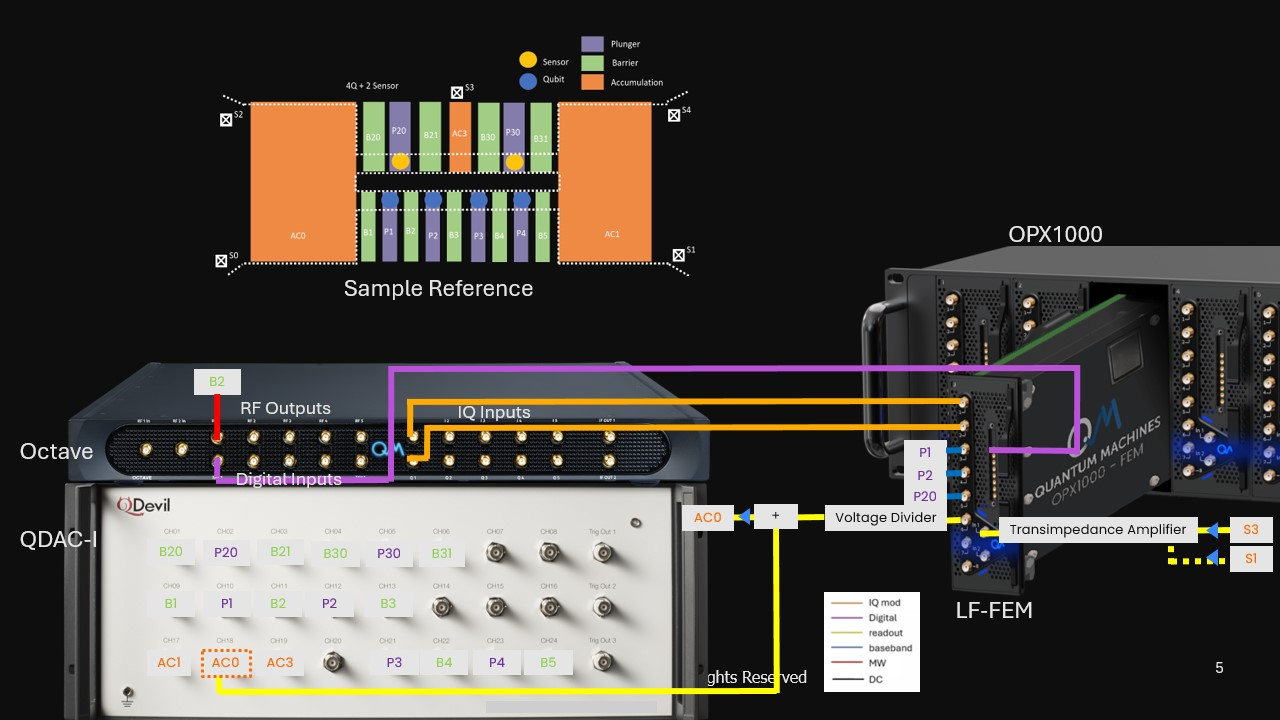
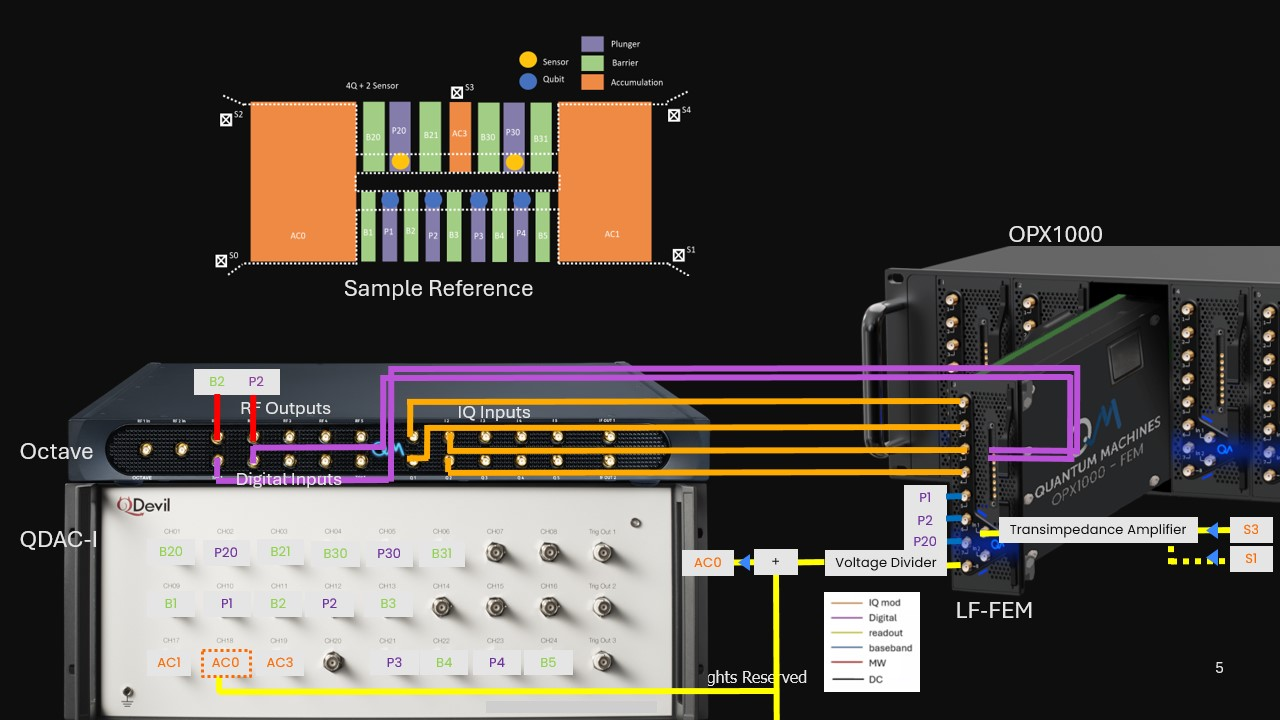
Add PAT.

Changed region(s): [[0.1875, 0.4889, 0.8438, 0.825], [0.5938, 0.9472, 0.625, 1.0]]

diff --git a/05_photon_assisted_tunneling.py b/05_photon_assisted_tunneling.py
@@ -1,0 +1,186 @@
+"""
+Photon-Assisted Tunneling Stability Map
+
+Performs a 2D sweep of the plunger gate voltages (P1, P2) using a QDAC while applying a high-frequency RF drive to one gate, inducing photon-assisted tunneling (PAT). The resulting current through the single-electron transistor (SET) is measured to map out charge transitions in a double quantum dot (DQD).
+
+Purpose:
+- Reveal standard and PAT-enhanced interdot charge transitions.
+- Visualize charge stability regions and tunneling processes.
+
+Output:
+- 2D current or lock-in map showing electron occupancy, saved with metadata and plots.
+"""
+
+
+from qm.qua import *
+from qm import QuantumMachinesManager
+from qm import SimulationConfig
+from qualang_tools.plot import interrupt_on_close
+from qualang_tools.results import wait_until_job_is_paused, fetching_tool, progress_counter, DataHandler
+
+from configuration import *
+import matplotlib.pyplot as plt
+
+from macros import measure_current, measure_lock_in, fetch_results_current, fetch_results_lock_in
+
+###################
+# The QUA program #
+###################
+n_avg = 100  # The number of averages
+left_plunger_gate = "P1"
+right_plunger_gate = "P2"
+measurement_type = "lock-in"  # "current" or "lock-in"
+
+# Surrounding voltage gates to be set to their turn-on voltage
+surrounding_gates = ["B1", "P2", "B3"]
+
+voltage_span = 0.3
+voltage_step = 0.02
+
+left_plunger_gate_dc_offsets = np.arange(
+    qdac_turn_on_voltages[left_plunger_gate] - voltage_span / 2,
+    qdac_turn_on_voltages[left_plunger_gate] + voltage_span / 2,
+    voltage_step
+)
+right_plunger_gate_dc_offsets = np.arange(
+    qdac_turn_on_voltages[right_plunger_gate] - voltage_span / 2,
+    qdac_turn_on_voltages[right_plunger_gate] + voltage_span / 2,
+    voltage_step
+)
+
+simulate = False
+
+with program() as prog:
+    n = declare(int)  # QUA variable for the averaging loop
+    i = declare(int)  # QUA variable for indexing the left barrier gate voltage step
+    j = declare(int)  # QUA variable for indexing the right barrier gate voltage step
+    n_st = declare_stream()
+
+    with for_(i, 0, i < len(left_plunger_gate_dc_offsets) + 1, i + 1):
+        with for_(j, 0, j < len(right_plunger_gate_dc_offsets) + 1, j + 1):
+            if not simulate:
+                # Pause the OPX to update the external DC voltages in Python
+                pause()
+                # Wait for the voltages to settle (depends on the voltage source bandwidth)
+                wait(settle_time)
+
+            play("photon_assisted_tunneling", "P2_RF")
+            # todo: should we wait here for equal time? As in "Coupling artificial
+            #  molecular spin states by photon-assisted tunnelling" by L.R Schreiber
+
+            with for_(n, 0, n < n_avg, n + 1):  # QUA for_ loop for averaging
+                if measurement_type == "current":
+                    i_source_st = measure_current()
+                elif measurement_type == "lock-in":
+                    I_st, Q_st = measure_lock_in()
+
+        save(i, n_st)
+
+    with stream_processing():
+        if measurement_type == "current":
+            i_source_st.buffer(n_avg).map(FUNCTIONS.average()).buffer(len(right_plunger_gate_dc_offsets)).save_all("i_source")
+        elif measurement_type == "lock-in":
+            I_st.buffer(n_avg).map(FUNCTIONS.average()).buffer(len(right_plunger_gate_dc_offsets)).save_all("I")
+            Q_st.buffer(n_avg).map(FUNCTIONS.average()).buffer(len(right_plunger_gate_dc_offsets)).save_all("Q")
+
+        n_st.save("iteration")
+
+
+#####################################
+#  Open Communication with the QOP  #
+#####################################
+qmm = QuantumMachinesManager(host=qop_ip, port=qop_port, cluster_name=cluster_name, octave=None)
+
+#######################
+# Simulate or execute #
+#######################
+if simulate:
+    # Simulates the QUA program for the specified duration
+    simulation_config = SimulationConfig(duration=1_000)  # In clock cycles = 4ns
+    # Simulate blocks python until the simulation is done
+    job = qmm.simulate(config, prog, simulation_config)
+    # Get the simulated samples
+    samples = job.get_simulated_samples()
+    # Get the waveform report object
+    waveform_report = job.get_simulated_waveform_report()
+    # Cast the waveform report to a python dictionary
+    waveform_dict = waveform_report.to_dict()
+    # Visualize and save the waveform report
+    waveform_report.create_plot(samples, plot=True, save_path=save_dir / "waveform_report.html")
+else:
+    # Initialize QDAC
+    qdac = get_qdac()
+    gate_plunger = qdac.get_channel_from_gate(left_plunger_gate)
+    gate_barrier = qdac.get_channel_from_gate(right_plunger_gate)
+
+    for surrounding_gate in surrounding_gates:
+        qdac.set_to_turn_on_voltage(surrounding_gate)
+
+    # Open the quantum machine
+    qm = qmm.open_qm(config)
+    # Send the QUA program to the OPX, which compiles and executes it
+    job = qm.execute(prog)
+    # Live plotting
+    fig, ax = plt.subplots(1, 1)
+    ax = [ax]
+
+    interrupt_on_close(fig, job)  # Interrupts the job when closing the figure
+
+    for i in range(len(left_plunger_gate_dc_offsets)):  # Loop over voltages
+        for j in range(len(right_plunger_gate_dc_offsets)):
+            # Set voltage
+            gate_plunger.v(left_plunger_gate_dc_offsets[i])  # set the channel voltage
+            gate_barrier.v(right_plunger_gate_dc_offsets[j])  # set the channel voltage
+            # Resume the QUA program (escape the 'pause' statement)
+            job.resume()
+            # Wait until the program reaches the 'pause' statement again, indicating that the QUA program is done
+            wait_until_job_is_paused(job)
+
+            if measurement_type == "current":
+                measurement_data_list = ["i_source"]
+            else:
+                measurement_data_list = ["I", "Q"]
+
+            if i == 0:
+                # Get results from QUA program and initialize live plotting
+                results = fetching_tool(job, data_list=measurement_data_list + ["iteration"], mode="live")
+
+            # Fetch the data from the last OPX run corresponding to the current slow axis iteration
+            iteration = results.fetch_all()[-1]
+            if measurement_type == "current":
+                measurement_data = fetch_results_current(results)
+            else:
+                measurement_data = fetch_results_lock_in(results)
+
+        # Progress bar
+        progress_counter(iteration, len(left_plunger_gate_dc_offsets))
+
+        # Plot results
+        for k, (name, result) in enumerate(measurement_data.items()):
+            axis_title = " ".join(name.split("_")[:-1]).capitalize() + f' [{name.split("_")[-1]}]'
+            fig.suptitle(f"{left_plunger_gate}-{right_plunger_gate} Stability Map with PAT ({measurement_type.capitalize()})")
+            ax[k].cla()
+            map = ax[k].pcolormesh(right_plunger_gate_dc_offsets, left_plunger_gate_dc_offsets[: iteration + 1], result, cmap="seismic")
+            ax[k].set_xlabel(f"{left_plunger_gate} Gate Voltage [V]")
+            ax[k].set_ylabel(f"{right_plunger_gate} Gate Voltage [V]")
+            cbar = plt.colorbar(map)
+            cbar.set_label(axis_title)
+
+            fig.tight_layout()
+            plt.pause(1)
+
+    data_handler = DataHandler(root_data_folder=save_dir)
+    data = {
+        **measurement_data,
+        "plunger_gate": left_plunger_gate,
+        "barrier_gate": right_plunger_gate,
+        "left_plunger_gate_dc_offsets": left_plunger_gate_dc_offsets,
+        "right_gate_dc_offsets": right_plunger_gate_dc_offsets,
+        "figure": fig
+    }
+    # Save results
+    data_folder = data_handler.save_data(data=data, name=f"{left_plunger_gate}_{right_plunger_gate}_stability_map_with_pat_{measurement_type}")
+
+    qdac.close()
+
+plt.show()

diff --git a/configuration.py b/configuration.py
@@ -99,6 +99,11 @@ qubit_LO = 13 * u.GHz
 qubit_1_IF = 50 * u.MHz
 qubit_2_IF = 50 * u.MHz
 
+photon_assisted_tunneling_LO = 10 * u.GHz
+photon_assisted_tunneling_IF = 50 * u.MHz
+photon_assisted_tunneling_length = 1 * u.ms
+photon_assisted_tunneling_amp = 100 * u.mV
+
 # Continuous wave
 const_len = 100
 const_amp = 0.1
@@ -211,9 +216,22 @@ config = {
                 "-y90": "-y90_pulse_q2",
             },
         },
+        "P2_RF": {
+            # "RF_inputs": {"port": (octave, 1)},
+            'mixInputs': {
+                'I': (con, fem, 3),
+                'Q': (con, fem, 4),
+                'lo_frequency': photon_assisted_tunneling_LO,
+                'mixer': 'mixer_pat'
+            },
+            "intermediate_frequency": photon_assisted_tunneling_IF,
+            "operations": {
+                "photon_assisted_tunneling": "const_pulse_pat",
+            },
+        },
         "P1": {
             "singleInput": {
-                "port": (con, fem, 3),
+                "port": (con, fem, 5),
             },
             "operations": {
                 "step": "P1_step_pulse",
@@ -221,7 +239,7 @@ config = {
         },
         "P1_sticky": {
             "singleInput": {
-                "port": (con, fem, 3),
+                "port": (con, fem, 5),
             },
             "sticky": {"analog": True, "duration": hold_offset_duration},
             "operations": {
@@ -230,7 +248,7 @@ config = {
         },
         "P2": {
             "singleInput": {
-                "port": (con, fem, 4),
+                "port": (con, fem, 6),
             },
             "operations": {
                 "step": "P2_step_pulse",
@@ -238,7 +256,7 @@ config = {
         },
         "P2_sticky": {
             "singleInput": {
-                "port": (con, fem, 4),
+                "port": (con, fem, 6),
             },
             "sticky": {"analog": True, "duration": hold_offset_duration},
             "operations": {
@@ -247,7 +265,7 @@ config = {
         },
         "SET": {
             "singleInput": {
-                "port": (con, fem, 5),
+                "port": (con, fem, 7),
             },
             "operations": {
                 "step": "SET_step_pulse",
@@ -255,7 +273,7 @@ config = {
         },
         "SET_sticky": {
             "singleInput": {
-                "port": (con, fem, 5),
+                "port": (con, fem, 7),
             },
             "sticky": {"analog": True, "duration": hold_offset_duration},
             "operations": {
@@ -277,7 +295,7 @@ config = {
         },
         "source_tia_lock_in": {
             "singleInput": {
-                "port": (con, fem, 1),
+                "port": (con, fem, 8),
             },
             "intermediate_frequency": lock_in_freq,
             "operations": {
@@ -447,6 +465,14 @@ config = {
                 "single": "SET_step_wf",
             },
         },
+        "const_pulse_pat": {
+            "operation": "control",
+            "length": photon_assisted_tunneling_length,
+            "waveforms": {
+                "I": "const_pat_wf",
+                "Q": "zero_wf",
+            },
+        },
         "lock_in_pulse": {
             "operation": "measurement",
             "length": lock_in_length,
@@ -478,6 +504,7 @@ config = {
         "lock_in_wf": {"type": "constant", "sample": lock_in_amp},
         "readout_pulse_wf": {"type": "constant", "sample": readout_amp},
         "const_wf": {"type": "constant", "sample": const_amp},
+        "const_pat_wf": {"type": "constant", "sample": photon_assisted_tunneling_amp},
         "saturation_drive_wf": {"type": "constant", "sample": saturation_amp},
         "zero_wf": {"type": "constant", "sample": 0.0},
         "x90_I_wf": {"type": "constant", "sample": x90_amp},
@@ -505,6 +532,9 @@ config = {
         },
     },
     "mixers": {
+        'mixer_pat': [
+            {'intermediate_frequency': photon_assisted_tunneling_IF, 'lo_frequency': photon_assisted_tunneling_LO, 'correction': [1.0, 0.0, 0.0, 1.0]},
+        ],
         'mixer_qubit': [
             {'intermediate_frequency': qubit_1_IF, 'lo_frequency': qubit_LO, 'correction': [1.0, 0.0, 0.0, 1.0]},
         ],
